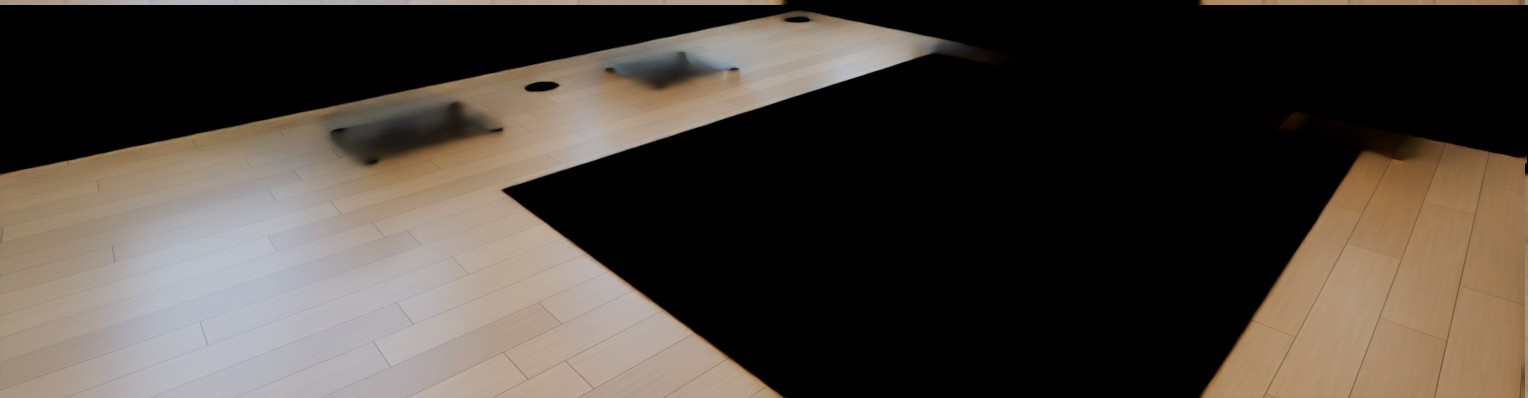
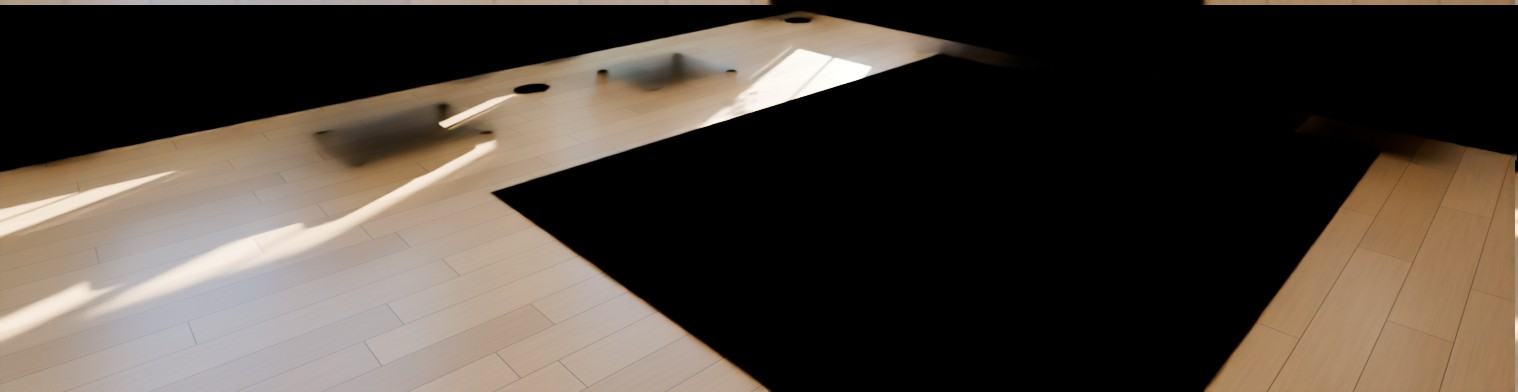
The Lookout 3500 2.0: primary
The Lookout 3500 2.0 page: a picture redone.

- Primary bedroom re-rendered: afternoon sun, cased windows with curtains, chandelier, art over the bed; crown molding as a choice, flooring, wall paint and window frames as before.

Claude-Session: https://claude.ai/code/session_01LcUu1yMTHs7qUW5E51HSvp

diff --git a/lookout/site.js b/lookout/site.js
@@ -1,1 +1,1 @@
-window.SJ={"name":"The Lookout 3500 2.0","slug":"the-lookout-3500-2","tag":"One-and-a-half-story plan","sub":"Four bedrooms and three and a half baths in 3,760 square feet, with the primary suite on the main level, a lookout room on the roof and a three-car garage.","stats":[["3,760","sq ft finished"],["4","bedrooms"],["3.5","baths"],["3","car garage"],["Main-level","primary suite"],["14 x 16","lookout room"]],"hero":{"day":"img/hero-day.jpg","night":""},"views":[{"id":"hero","name":"Front","kind":"ext","keys":["fas","fd","fdc","g","gdc","lk","prf","pst","rof","sid","trm","win"]},{"id":"yard","name":"Back yard","kind":"ext","keys":["fas","g","lk","pl","prf","pst","rof","sid","trm","win"]},{"id":"great","name":"Living room","kind":"int","keys":["bi","clg","cr","flr","fp","hwc","idc","ids","wal","win"]},{"id":"kitchen","name":"Kitchen","kind":"int","keys":["bsp","cab","cr","ctr","flr","hwc","isl","wal","win"]},{"id":"dining","name":"Dining room","kind":"int","keys":["flr","wal","win"]},{"id":"foyer","name":"Foyer","kind":"int","keys":["cr","fd","fdc","flr","hwc","sf","sr","wal","win"]},{"id":"primary","name":"Primary bedroom","kind":"int","keys":["flr","hwc","wal","win"]},{"id":"bath","name":"Primary bath","kind":"int","keys":["btl","cr","ctr","hwc","shw","vcab","wal","win"]},{"id":"office","name":"Loft over the primary closet","kind":"int","keys":["cr","flr","hwc","lof","sf","sr","wal","win"]},{"id":"loft","name":"Upstairs loft","kind":"int","keys":["wal","win"]},{"id":"lookout","name":"Lookout room","kind":"int","keys":["sf","sr","wal","win"],"veil":{"when":{"lk":"0"},"keys":["sf","sr","wal","win"],"note":"Shows in this picture when the lookout room is chosen"}},{"id":"bed2","name":"Bedroom 2","kind":"int","keys":["cpt","uf","wal","win"]},{"id":"bed4","name":"Bedroom 4","kind":"int","keys":["cpt","hwc","idc","uf","wal","win"]},{"id":"lounge","name":"Lower level lounge","kind":"int","keys":["b","cab","ctr","hwc","isl","wal"],"veil":{"when":{"b":"u"},"keys":["cab","ctr","hwc","isl","wal"],"note":"Shows in this picture once the lower level is finished"}},{"id":"bar","name":"Lower level bar","kind":"int","keys":["b","ctr","hwc","isl","wal"],"veil":{"when":{"b":"u"},"keys":["ctr","hwc","isl","wal"],"note":"Shows in this picture once the lower level is finished"}}],"baths":[],"bathkeys":[],"opts":[{"key":"lk","name":"Lookout room","cat":"ext","ch":[{"id":"1","name":"Lookout room on the roof (as drawn)"},{"id":"0","name":"No lookout"}],"note":"The lookout room sits on the roof, 14 x 16 ft with windows all around, reached by its own stair."},{"key":"g","name":"Garage entry","cat":"ext","ch":[{"id":"f","name":"Front entry (as drawn)"},{"id":"s","name":"Side entry, with a motor court"}],"note":"Side entry: the garage wing is re-proportioned and its doors face a motor court at the side; windows take their place on the front."},{"key":"pl","name":"Pool","cat":"ext","ch":[{"id":"n","name":"No pool (as drawn)"},{"id":"1","name":"Lap pool, 10 x 45 ft"},{"id":"2","name":"Plunge pool with a raised spa"},{"id":"3","name":"Courtyard pool with a shade pavilion"}],"note":"The pools sit behind the covered deck, on a paved terrace one step above the lawn."},{"key":"sid","name":"Siding colour","cat":"ext","ch":[{"id":"white","name":"Chantilly White","css":"#F1EFE8"},{"id":"cream","name":"Warm Cream","css":"#E6DCC6"},{"id":"greige","name":"Pebble Greige","css":"#B9B2A3"},{"id":"sage","name":"Sage","css":"#8E9A86"},{"id":"blue","name":"Harbor Blue","css":"#5E768A"},{"id":"navy","name":"Midnight Navy","css":"#28364A"},{"id":"iron","name":"Iron Gray","css":"#45484A"},{"id":"black","name":"Tricorn Black","css":"#222325"}]},{"key":"trm","name":"Trim and corner boards","cat":"ext","ch":[{"id":"white","name":"White","css":"#F4F2EC"},{"id":"cream","name":"Cream","css":"#E9E1CF"},{"id":"black","name":"Black","css":"#1E1F21"},{"id":"bronze","name":"Dark Bronze","css":"#3A322B"}]},{"key":"rof","name":"Roof shingles","cat":"ext","ch":[{"id":"char","name":"Charcoal","css":"linear-gradient(180deg,#33353A 0 50%,#45474C 50%)"},{"id":"onyx","name":"Onyx Black","css":"linear-gradient(180deg,#1D1E21 0 50%,#2A2B2F 50%)"},{"id":"wood","name":"Weathered Wood","css":"linear-gradient(180deg,#5E554B 0 50%,#7A6F62 50%)"},{"id":"slate","name":"Slate Gray","css":"linear-gradient(180deg,#4D5560 0 50%,#69717C 50%)"},{"id":"brown","name":"Barkwood","css":"linear-gradient(180deg,#41342B 0 50%,#5B4A3D 50%)"}]},{"key":"prf","name":"Porch, lookout and accent roofs","cat":"ext","ch":[{"id":"metal","name":"Black standing seam","css":"repeating-linear-gradient(90deg,#1b1c1f 0 7px,#34363a 7px 9px)"},{"id":"copper","name":"Copper standing seam","css":"repeating-linear-gradient(90deg,#9A5A34 0 7px,#c07c4c 7px 9px)"},{"id":"match","name":"Shingles to match","css":"repeating-linear-gradient(0deg,#2a2b2f 0 5px,#1d1e21 5px 10px)"}]},{"key":"fas","name":"Gutters and downspouts","cat":"ext","ch":[{"id":"white","name":"White","css":"#F2F0EA"},{"id":"black","name":"Black","css":"#1B1C1E"},{"id":"bronze","name":"Dark Bronze","css":"#3A322B"}]},{"key":"win","name":"Window frames","cat":"ext","ch":[{"id":"black","name":"Black","css":"#18191B"},{"id":"white","name":"White","css":"#F0EEE8"},{"id":"bronze","name":"Bronze","css":"#3B3129"},{"id":"clay","name":"Clay","css":"#A89F8E"}]},{"key":"fd","name":"Front door","cat":"ext","ch":[{"id":"g","name":"Double doors, glass over a panel"},{"id":"s","name":"Steel-look glass double doors"},{"id":"c","name":"Craftsman door with sidelights"},{"id":"p","name":"Panelled double doors"}],"note":"Every design comes with a transom over the door; its colour is the next choice."},{"key":"fdc","name":"Front door colour","cat":"ext","ch":[{"id":"wood","name":"Stained Walnut","css":"linear-gradient(135deg,#6A4226,#4A2C18)"},{"id":"black","name":"Black","css":"#161719"},{"id":"navy","name":"Navy","css":"#22324A"},{"id":"red","name":"Barn Red","css":"#6E1F1B"},{"id":"teal","name":"Deep Teal","css":"#1F4A4C"},{"id":"sage","name":"Sage","css":"#7C8A74"},{"id":"white","name":"White","css":"#F0EEE8"}]},{"key":"gdc","name":"Garage door colour","cat":"ext","ch":[{"id":"white","name":"White","css":"#EFEDE7"},{"id":"black","name":"Black","css":"#18191B"},{"id":"iron","name":"Iron Gray","css":"#4A4C4E"},{"id":"bronze","name":"Bronze","css":"#3B3129"},{"id":"wood","name":"Walnut","css":"linear-gradient(135deg,#6A4226,#4A2C18)"}]},{"key":"pst","name":"Porch posts and beams","cat":"ext","ch":[{"id":"cedar","name":"Stained cedar","css":"linear-gradient(135deg,#96663A,#774E28)"},{"id":"white","name":"White","css":"#EFEDE7"},{"id":"black","name":"Black","css":"#1F2022"}]},{"key":"b","name":"Lower level","cat":"int","ch":[{"id":"u","name":"Unfinished (as drawn)"},{"id":"f","name":"Finished"}]},{"key":"lof","name":"Loft over the primary closet","cat":"int","ch":[{"id":"o","name":"Home office"},{"id":"l","name":"Library"},{"id":"r","name":"Retreat"}],"note":"The room over the primary closet, up its own spiral stair: 13 x 11 ft with windows on all four sides."},{"key":"clg","name":"Living room ceiling","cat":"int","ch":[{"id":"c","name":"Coffered, painted"},{"id":"o","name":"Coffered, oak beams"},{"id":"b","name":"Timber beams"},{"id":"t","name":"Tray ceiling"}],"note":"Coffers: nine panels framed by beams, centred on the fireplace, with a ring chandelier in the middle."},{"key":"cr","name":"Crown molding","cat":"int","ch":[{"id":"n","name":"None"},{"id":"c","name":"Classic crown, 5 1/4 in."},{"id":"f","name":"Craftsman, flat with a cap"}],"note":"Runs on every wall that meets a flat ceiling: the main level, upstairs, the lookout room, the loft over the closet and the finished lower level."},{"key":"fp","name":"Fireplace","cat":"int","ch":[{"id":"stone","name":"Stacked stone (as drawn)","css":"repeating-linear-gradient(0deg,#8f887c 0 4px,#6f695f 4px 5px)"},{"id":"white","name":"White stacked stone","css":"repeating-linear-gradient(0deg,#E9E6DF 0 4px,#c4c0b7 4px 5px)"},{"id":"brick","name":"Red brick","css":"repeating-linear-gradient(0deg,#8E4A36 0 5px,#B9B2A6 5px 6px)"},{"id":"wbrick","name":"White painted brick","css":"repeating-linear-gradient(0deg,#EDEAE3 0 5px,#cfcbc2 5px 6px)"},{"id":"slate","name":"Charcoal slate tile","css":"repeating-linear-gradient(90deg,#3B3D40 0 12px,#1F2022 12px 13px)"}]},{"key":"bi","name":"Fireplace built-ins","cat":"int","ch":[{"id":"c","name":"Cabinets with oak tops (as drawn)"},{"id":"s","name":"Cabinets and shelves to the ceiling"},{"id":"n","name":"None"}],"note":"The built-ins stand on both sides of the fireplace."},{"key":"ids","name":"Interior door style","cat":"int","ch":[{"id":"s","name":"Two-panel Shaker"},{"id":"f","name":"Five-panel"},{"id":"c","name":"Craftsman, three-panel"}],"note":"8 ft doors on the main level, 6 ft 8 in. upstairs; every opening is cased, with a cap over the head."},{"key":"idc","name":"Interior doors","cat":"int","ch":[{"id":"white","name":"White","css":"#F2F0EA"},{"id":"black","name":"Black","css":"#1E1F21"},{"id":"grey","name":"Gray","css":"#8F9190"},{"id":"oak","name":"Natural oak","css":"linear-gradient(135deg,#B9905E,#A67C4C)"}]},{"key":"sf","name":"Stair treads and handrails","cat":"int","ch":[{"id":"o","name":"Natural oak (as drawn)","css":"linear-gradient(135deg,#B9905E,#A67C4C)"},{"id":"d","name":"Walnut","css":"linear-gradient(135deg,#6A4A32,#573B27)"},{"id":"k","name":"Ebony","css":"linear-gradient(135deg,#30261F,#211A15)"},{"id":"w","name":"Whitewashed oak","css":"linear-gradient(135deg,#D9CDB8,#C9BCA4)"}]},{"key":"sr","name":"Stair balusters","cat":"int","ch":[{"id":"k","name":"Black iron","css":"#141414"},{"id":"w","name":"White","css":"#EFEDE7"},{"id":"b","name":"Satin brass","css":"#B08A4A"}]},{"key":"flr","name":"Hardwood flooring","cat":"int","ch":[{"id":"oak","name":"Natural Oak Plank","css":"repeating-linear-gradient(90deg,#B08F68 0 9px,#9C7B55 9px 18px)"},{"id":"honey","name":"Honey Oak","css":"repeating-linear-gradient(90deg,#B8834A 0 9px,#A2703C 9px 18px)"},{"id":"grey","name":"Driftwood Gray","css":"repeating-linear-gradient(90deg,#9A9288 0 9px,#857D73 9px 18px)"},{"id":"walnut","name":"Walnut","css":"repeating-linear-gradient(90deg,#6A4A32 0 9px,#573B27 9px 18px)"},{"id":"white","name":"Whitewashed","css":"repeating-linear-gradient(90deg,#CFC3B0 0 9px,#BFB29E 9px 18px)"}]},{"key":"uf","name":"Bedroom flooring","cat":"int","ch":[{"id":"c","name":"Carpet (as shown)","css":"repeating-linear-gradient(45deg,#C9C0AE 0 3px,#BDB4A2 3px 6px)"},{"id":"oak","name":"Natural Oak Plank","css":"repeating-linear-gradient(90deg,#B08F68 0 9px,#9C7B55 9px 18px)"},{"id":"honey","name":"Honey Oak","css":"repeating-linear-gradient(90deg,#B8834A 0 9px,#A2703C 9px 18px)"},{"id":"grey","name":"Driftwood Gray","css":"repeating-linear-gradient(90deg,#9A9288 0 9px,#857D73 9px 18px)"},{"id":"walnut","name":"Walnut","css":"repeating-linear-gradient(90deg,#6A4A32 0 9px,#573B27 9px 18px)"},{"id":"white","name":"Whitewashed","css":"repeating-linear-gradient(90deg,#CFC3B0 0 9px,#BFB29E 9px 18px)"}]},{"key":"cpt","name":"Carpet","cat":"int","ch":[{"id":"oat","name":"Oatmeal","css":"#C9C0AE"},{"id":"grey","name":"Silver","css":"#B5B3AE"},{"id":"taupe","name":"Taupe","css":"#A39685"}],"only":{"uf":"c"}},{"key":"wal","name":"Wall paint","cat":"int","ch":[{"id":"alab","name":"Alabaster","css":"#EDEAE0"},{"id":"grey","name":"Agreeable Gray","css":"#D1CBC1"},{"id":"greige","name":"Accessible Beige","css":"#D1C7B8"},{"id":"blue","name":"Sea Salt","css":"#CDD2CA"},{"id":"white","name":"Pure White","css":"#F2F0EB"}]},{"key":"cab","name":"Kitchen cabinets","cat":"int","ch":[{"id":"white","name":"White Shaker","css":"#EFEDE7"},{"id":"grey","name":"Dove Gray","css":"#A9ABA8"},{"id":"sage","name":"Sage","css":"#8A967F"},{"id":"navy","name":"Navy","css":"#27364B"},{"id":"black","name":"Black","css":"#1F2022"},{"id":"oak","name":"Natural Oak","css":"linear-gradient(135deg,#B9905E,#A67C4C)"}]},{"key":"isl","name":"Island and range hood","cat":"int","ch":[{"id":"navy","name":"Navy","css":"#27364B"},{"id":"white","name":"White","css":"#EFEDE7"},{"id":"oak","name":"Natural Oak","css":"linear-gradient(135deg,#B9905E,#A67C4C)"},{"id":"black","name":"Black","css":"#1F2022"},{"id":"sage","name":"Sage","css":"#8A967F"}]},{"key":"ctr","name":"Countertops","cat":"int","ch":[{"id":"white","name":"White Quartz","css":"#EEEBE4"},{"id":"marble","name":"Marble-look Quartz","css":"linear-gradient(120deg,#ECE9E3 0 40%,#b9b6ae 44%,#ECE9E3 48% 70%,#c9c6be 74%,#ECE9E3 78%)"},{"id":"black","name":"Black Granite","css":"linear-gradient(120deg,#17181A 0 55%,#4a4a48 60%,#17181A 65%)"},{"id":"grey","name":"Concrete Gray","css":"#9A9894"}]},{"key":"bsp","name":"Backsplash","cat":"int","ch":[{"id":"slab","name":"Marble slab","css":"linear-gradient(120deg,#ECE9E3 0 40%,#b9b6ae 44%,#ECE9E3 48% 70%,#c9c6be 74%,#ECE9E3 78%)"},{"id":"subway","name":"White Subway","css":"repeating-linear-gradient(0deg,#F0EEE8 0 8px,#cfccc4 8px 9px)"},{"id":"green","name":"Sage Zellige","css":"repeating-linear-gradient(0deg,#8FA08A 0 8px,#6f806a 8px 9px)"},{"id":"grey","name":"Gray Subway","css":"repeating-linear-gradient(0deg,#B4B6B4 0 8px,#8f918f 8px 9px)"},{"id":"black","name":"Black Subway","css":"repeating-linear-gradient(0deg,#232426 0 8px,#6A6A68 8px 9px)"}]},{"key":"vcab","name":"Bathroom vanities","cat":"int","ch":[{"id":"oak","name":"Natural oak","css":"linear-gradient(135deg,#B9905E,#A67C4C)"},{"id":"white","name":"White","css":"#EFEDE7"},{"id":"navy","name":"Navy","css":"#27364B"},{"id":"sage","name":"Sage","css":"#8A967F"},{"id":"black","name":"Black","css":"#1F2022"},{"id":"walnut","name":"Walnut","css":"linear-gradient(135deg,#6A4A32,#573B27)"}]},{"key":"shw","name":"Shower walls","cat":"int","ch":[{"id":"slab","name":"Marble slab","css":"linear-gradient(120deg,#ECE9E3 0 40%,#b9b6ae 44%,#ECE9E3 48% 70%,#c9c6be 74%,#ECE9E3 78%)"},{"id":"subway","name":"White subway tile","css":"repeating-linear-gradient(0deg,#F0EEE8 0 8px,#cfccc4 8px 9px)"},{"id":"zel","name":"Sage zellige","css":"repeating-linear-gradient(0deg,#8FA08A 0 8px,#6f806a 8px 9px)"},{"id":"slate","name":"Charcoal slate","css":"repeating-linear-gradient(90deg,#3B3D40 0 14px,#1F2022 14px 15px)"},{"id":"trav","name":"Warm limestone","css":"repeating-linear-gradient(90deg,#D9CDB8 0 14px,#B8AC96 14px 15px)"}],"note":"The primary bath's wet room, and the wall behind the tub in each upstairs bath."},{"key":"btl","name":"Bath floor tile","cat":"int","ch":[{"id":"w","name":"White porcelain","css":"repeating-linear-gradient(90deg,#EDEBE6 0 12px,#B9B6AE 12px 13px)"},{"id":"g","name":"Warm gray","css":"repeating-linear-gradient(90deg,#B9B2A6 0 12px,#8C867B 12px 13px)"},{"id":"m","name":"Marble look","css":"linear-gradient(120deg,#ECEAE6 0 40%,#c4c1bb 46%,#ECEAE6 52%)"},{"id":"c","name":"Charcoal slate","css":"repeating-linear-gradient(90deg,#4A4C4F 0 12px,#2C2D2F 12px 13px)"}]},{"key":"hwc","name":"Hardware and faucets","cat":"int","ch":[{"id":"brass","name":"Satin Brass","css":"#B08A4A"},{"id":"black","name":"Matte Black","css":"#101011"},{"id":"nickel","name":"Satin Nickel","css":"#9A9A98"}]}],"defaults":{"sid":"white","trm":"white","fas":"white","win":"black","fdc":"wood","gdc":"white","rof":"char","prf":"metal","lk":"1","g":"f","b":"u","pl":"n","fd":"g","pst":"cedar","clg":"c","cr":"n","fp":"stone","bi":"c","sf":"o","sr":"k","idc":"white","ids":"s","lof":"o","hwc":"brass","wal":"alab","cab":"white","isl":"navy","ctr":"marble","bsp":"slab","vcab":"oak","shw":"slab","btl":"w","flr":"oak","cpt":"oat","uf":"c"},"gallery":[],"looks":[{"cat":"ext","name":"Modern farmhouse (as drawn)","set":{}},{"cat":"ext","name":"Midnight and copper","set":{"sid":"navy","prf":"copper","gdc":"wood","rof":"onyx"}},{"cat":"ext","name":"Sage cottage","set":{"sid":"sage","trm":"cream","fas":"bronze","win":"white","rof":"wood","fdc":"navy","fd":"c"}},{"cat":"ext","name":"Charcoal modern","set":{"sid":"iron","trm":"black","fas":"black","rof":"onyx","gdc":"black","fdc":"black","fd":"s"}},{"cat":"ext","name":"Coastal blue","set":{"sid":"blue","win":"white","rof":"slate","fdc":"navy"}},{"cat":"ext","name":"Warm greige","set":{"sid":"greige","trm":"cream","fas":"bronze","win":"bronze","rof":"brown","gdc":"bronze","fd":"p"}},{"cat":"ext","name":"Black barn","set":{"sid":"black","trm":"black","fas":"black","gdc":"wood","prf":"copper","fd":"p"}},{"cat":"int","name":"Light and warm (as shown)","set":{}},{"cat":"int","name":"Warm oak","set":{"isl":"oak","ctr":"marble","flr":"honey","wal":"greige","clg":"o","cr":"f","ids":"c"}},{"cat":"int","name":"Deep and moody","set":{"cab":"navy","bsp":"grey","flr":"walnut","wal":"grey","idc":"black","clg":"b","cr":"c","vcab":"navy","shw":"slate","lof":"l"}},{"cat":"int","name":"Scandinavian","set":{"isl":"white","flr":"white","wal":"white","hwc":"black","clg":"t","ids":"f","vcab":"white","shw":"subway"}},{"cat":"int","name":"Sage kitchen","set":{"cab":"sage","isl":"oak","bsp":"green","vcab":"sage","shw":"zel","lof":"r"}},{"cat":"int","name":"Black and white","set":{"cab":"black","isl":"white","ctr":"marble","flr":"grey","wal":"white","hwc":"nickel","idc":"black","ids":"c","cr":"c","vcab":"black","shw":"subway"}},{"cat":"int","name":"Everything added","set":{"cr":"c","clg":"o","bi":"s","ids":"c","lof":"l","b":"f"}}],"plan_lead":"Each level seen from straight above, with everything over it taken away. Furniture is illustrative.","plans":[{"id":"main_f","name":"Main level","note":"2,144 sq ft: living, dining and kitchen in the core, the primary suite in its own wing, a three-car garage","svg":"<img src=\"img/plan-main_f.jpg\" alt=\"Main level, seen from above with the levels over it taken away\" style=\"width:100%;height:auto;display:block;border-radius:10px\">"},{"id":"main_s","name":"Main level, side-entry garage","note":"The same rooms; the garage wing is re-proportioned and entered from a motor court at the side","svg":"<img src=\"img/plan-main_s.jpg\" alt=\"Main level, side-entry garage, seen from above with the levels over it taken away\" style=\"width:100%;height:auto;display:block;border-radius:10px\">"},{"id":"upper","name":"Upstairs","note":"1,224 sq ft: three bedrooms, two baths, the loft and a laundry; the office loft sits over the primary closet","svg":"<img src=\"img/plan-upper.jpg\" alt=\"Upstairs, seen from above with the levels over it taken away\" style=\"width:100%;height:auto;display:block;border-radius:10px\">"},{"id":"look","name":"Lookout","note":"224 sq ft: the lookout room on the roof, windows on all four sides","svg":"<img src=\"img/plan-look.jpg\" alt=\"Lookout, seen from above with the levels over it taken away\" style=\"width:100%;height:auto;display:block;border-radius:10px\">"},{"id":"bsmt_u","name":"Lower level","note":"Unfinished, as drawn: a safe room, mechanical space and rough-ins for a bath and a wet bar","svg":"<img src=\"img/plan-bsmt_u.jpg\" alt=\"Lower level, seen from above with the levels over it taken away\" style=\"width:100%;height:auto;display:block;border-radius:10px\">"},{"id":"bsmt_f","name":"Lower level, finished","note":"Lounge, bar, gym, bath and sauna, with the safe room, storage and mechanical space","svg":"<img src=\"img/plan-bsmt_f.jpg\" alt=\"Lower level, finished, seen from above with the levels over it taken away\" style=\"width:100%;height:auto;display:block;border-radius:10px\">"}],"lot":null,"specs":[{"h":"The home","items":["3,760 sq ft finished: 2,144 on the main level, 1,224 upstairs, a 168 sq ft office loft and the 224 sq ft lookout room","Four bedrooms and three and a half baths; the primary suite is on the main level in its own wing","The primary suite: a 20 x 20 bedroom with a door to the covered deck, a spa bath and a walk-in closet, about 800 sq ft in all","Three-car garage in a wing of its own, front entry or side entry","Core 34 x 36 ft, two stories; the garage wing 32 x 24 ft and the primary wing 20 x 46 ft are one story"]},{"h":"Rooms","items":["Main level: foyer, dining room, living room with a fireplace and a 12 ft slider to the covered deck, kitchen with a prep kitchen and pantry, mudroom, powder room, laundry","Upstairs: three bedrooms, two baths, a loft, a second laundry","An office loft over the primary closet, reached by its own spiral stair","The lookout room: 14 x 16 ft on the roof, windows on all four sides"]},{"h":"Heights and roof","items":["10 ft ceilings on the main level","Gable roofs with standing-seam accents over the porch, the lookout and the garage doors","Covered 16 x 14 ft deck off the living room; covered front porch on timber posts"]},{"h":"Inside finish","items":["Living room ceiling: nine coffers centred on the fireplace with a ring chandelier, painted or in oak; timber beams or a tray ceiling instead","Doors: 8 ft on the main level and 6 ft 8 in. upstairs, in three panel styles, every opening cased with a cap over the head","Crown molding as a choice on every level, classic or craftsman","Front door in four designs under a transom: glass over a panel, steel-look glass, craftsman with sidelights, or panelled","Baths: vanity cabinets and shower walls chosen apart from the kitchen","The loft over the primary closet as a home office, a library or a retreat"]},{"h":"Outside","items":["Board-and-batten siding with trim boards at corners and openings","Black-framed windows with grids","A full basement under the core"]}],"foot":["The pictures and the design studio on this page are computer renderings of a 3D model of the plan. Furniture, planting and the land around the house are illustrative; the plan is not drawn on a particular lot.","Finishes offered in the design studio are examples for planning, not a builder's price list. A builder's plan set and contract govern."],"tour":null,"model3d":{"src":"3d/","poster":"img/hero-day.jpg"}};
+window.SJ={"name":"The Lookout 3500 2.0","slug":"the-lookout-3500-2","tag":"One-and-a-half-story plan","sub":"Four bedrooms and three and a half baths in 3,760 square feet, with the primary suite on the main level, a lookout room on the roof and a three-car garage.","stats":[["3,760","sq ft finished"],["4","bedrooms"],["3.5","baths"],["3","car garage"],["Main-level","primary suite"],["14 x 16","lookout room"]],"hero":{"day":"img/hero-day.jpg","night":""},"views":[{"id":"hero","name":"Front","kind":"ext","keys":["fas","fd","fdc","g","gdc","lk","prf","pst","rof","sid","trm","win"]},{"id":"yard","name":"Back yard","kind":"ext","keys":["fas","g","lk","pl","prf","pst","rof","sid","trm","win"]},{"id":"great","name":"Living room","kind":"int","keys":["bi","clg","cr","flr","fp","hwc","idc","ids","wal","win"]},{"id":"kitchen","name":"Kitchen","kind":"int","keys":["bsp","cab","cr","ctr","flr","hwc","isl","wal","win"]},{"id":"dining","name":"Dining room","kind":"int","keys":["flr","wal","win"]},{"id":"foyer","name":"Foyer","kind":"int","keys":["cr","fd","fdc","flr","hwc","sf","sr","wal","win"]},{"id":"primary","name":"Primary bedroom","kind":"int","keys":["cr","flr","wal","win"]},{"id":"bath","name":"Primary bath","kind":"int","keys":["btl","cr","ctr","hwc","shw","vcab","wal","win"]},{"id":"office","name":"Loft over the primary closet","kind":"int","keys":["cr","flr","hwc","lof","sf","sr","wal","win"]},{"id":"loft","name":"Upstairs loft","kind":"int","keys":["wal","win"]},{"id":"lookout","name":"Lookout room","kind":"int","keys":["sf","sr","wal","win"],"veil":{"when":{"lk":"0"},"keys":["sf","sr","wal","win"],"note":"Shows in this picture when the lookout room is chosen"}},{"id":"bed2","name":"Bedroom 2","kind":"int","keys":["cpt","uf","wal","win"]},{"id":"bed4","name":"Bedroom 4","kind":"int","keys":["cpt","hwc","idc","uf","wal","win"]},{"id":"lounge","name":"Lower level lounge","kind":"int","keys":["b","cab","ctr","hwc","isl","wal"],"veil":{"when":{"b":"u"},"keys":["cab","ctr","hwc","isl","wal"],"note":"Shows in this picture once the lower level is finished"}},{"id":"bar","name":"Lower level bar","kind":"int","keys":["b","ctr","hwc","isl","wal"],"veil":{"when":{"b":"u"},"keys":["ctr","hwc","isl","wal"],"note":"Shows in this picture once the lower level is finished"}}],"baths":[],"bathkeys":[],"opts":[{"key":"lk","name":"Lookout room","cat":"ext","ch":[{"id":"1","name":"Lookout room on the roof (as drawn)"},{"id":"0","name":"No lookout"}],"note":"The lookout room sits on the roof, 14 x 16 ft with windows all around, reached by its own stair."},{"key":"g","name":"Garage entry","cat":"ext","ch":[{"id":"f","name":"Front entry (as drawn)"},{"id":"s","name":"Side entry, with a motor court"}],"note":"Side entry: the garage wing is re-proportioned and its doors face a motor court at the side; windows take their place on the front."},{"key":"pl","name":"Pool","cat":"ext","ch":[{"id":"n","name":"No pool (as drawn)"},{"id":"1","name":"Lap pool, 10 x 45 ft"},{"id":"2","name":"Plunge pool with a raised spa"},{"id":"3","name":"Courtyard pool with a shade pavilion"}],"note":"The pools sit behind the covered deck, on a paved terrace one step above the lawn."},{"key":"sid","name":"Siding colour","cat":"ext","ch":[{"id":"white","name":"Chantilly White","css":"#F1EFE8"},{"id":"cream","name":"Warm Cream","css":"#E6DCC6"},{"id":"greige","name":"Pebble Greige","css":"#B9B2A3"},{"id":"sage","name":"Sage","css":"#8E9A86"},{"id":"blue","name":"Harbor Blue","css":"#5E768A"},{"id":"navy","name":"Midnight Navy","css":"#28364A"},{"id":"iron","name":"Iron Gray","css":"#45484A"},{"id":"black","name":"Tricorn Black","css":"#222325"}]},{"key":"trm","name":"Trim and corner boards","cat":"ext","ch":[{"id":"white","name":"White","css":"#F4F2EC"},{"id":"cream","name":"Cream","css":"#E9E1CF"},{"id":"black","name":"Black","css":"#1E1F21"},{"id":"bronze","name":"Dark Bronze","css":"#3A322B"}]},{"key":"rof","name":"Roof shingles","cat":"ext","ch":[{"id":"char","name":"Charcoal","css":"linear-gradient(180deg,#33353A 0 50%,#45474C 50%)"},{"id":"onyx","name":"Onyx Black","css":"linear-gradient(180deg,#1D1E21 0 50%,#2A2B2F 50%)"},{"id":"wood","name":"Weathered Wood","css":"linear-gradient(180deg,#5E554B 0 50%,#7A6F62 50%)"},{"id":"slate","name":"Slate Gray","css":"linear-gradient(180deg,#4D5560 0 50%,#69717C 50%)"},{"id":"brown","name":"Barkwood","css":"linear-gradient(180deg,#41342B 0 50%,#5B4A3D 50%)"}]},{"key":"prf","name":"Porch, lookout and accent roofs","cat":"ext","ch":[{"id":"metal","name":"Black standing seam","css":"repeating-linear-gradient(90deg,#1b1c1f 0 7px,#34363a 7px 9px)"},{"id":"copper","name":"Copper standing seam","css":"repeating-linear-gradient(90deg,#9A5A34 0 7px,#c07c4c 7px 9px)"},{"id":"match","name":"Shingles to match","css":"repeating-linear-gradient(0deg,#2a2b2f 0 5px,#1d1e21 5px 10px)"}]},{"key":"fas","name":"Gutters and downspouts","cat":"ext","ch":[{"id":"white","name":"White","css":"#F2F0EA"},{"id":"black","name":"Black","css":"#1B1C1E"},{"id":"bronze","name":"Dark Bronze","css":"#3A322B"}]},{"key":"win","name":"Window frames","cat":"ext","ch":[{"id":"black","name":"Black","css":"#18191B"},{"id":"white","name":"White","css":"#F0EEE8"},{"id":"bronze","name":"Bronze","css":"#3B3129"},{"id":"clay","name":"Clay","css":"#A89F8E"}]},{"key":"fd","name":"Front door","cat":"ext","ch":[{"id":"g","name":"Double doors, glass over a panel"},{"id":"s","name":"Steel-look glass double doors"},{"id":"c","name":"Craftsman door with sidelights"},{"id":"p","name":"Panelled double doors"}],"note":"Every design comes with a transom over the door; its colour is the next choice."},{"key":"fdc","name":"Front door colour","cat":"ext","ch":[{"id":"wood","name":"Stained Walnut","css":"linear-gradient(135deg,#6A4226,#4A2C18)"},{"id":"black","name":"Black","css":"#161719"},{"id":"navy","name":"Navy","css":"#22324A"},{"id":"red","name":"Barn Red","css":"#6E1F1B"},{"id":"teal","name":"Deep Teal","css":"#1F4A4C"},{"id":"sage","name":"Sage","css":"#7C8A74"},{"id":"white","name":"White","css":"#F0EEE8"}]},{"key":"gdc","name":"Garage door colour","cat":"ext","ch":[{"id":"white","name":"White","css":"#EFEDE7"},{"id":"black","name":"Black","css":"#18191B"},{"id":"iron","name":"Iron Gray","css":"#4A4C4E"},{"id":"bronze","name":"Bronze","css":"#3B3129"},{"id":"wood","name":"Walnut","css":"linear-gradient(135deg,#6A4226,#4A2C18)"}]},{"key":"pst","name":"Porch posts and beams","cat":"ext","ch":[{"id":"cedar","name":"Stained cedar","css":"linear-gradient(135deg,#96663A,#774E28)"},{"id":"white","name":"White","css":"#EFEDE7"},{"id":"black","name":"Black","css":"#1F2022"}]},{"key":"b","name":"Lower level","cat":"int","ch":[{"id":"u","name":"Unfinished (as drawn)"},{"id":"f","name":"Finished"}]},{"key":"lof","name":"Loft over the primary closet","cat":"int","ch":[{"id":"o","name":"Home office"},{"id":"l","name":"Library"},{"id":"r","name":"Retreat"}],"note":"The room over the primary closet, up its own spiral stair: 13 x 11 ft with windows on all four sides."},{"key":"clg","name":"Living room ceiling","cat":"int","ch":[{"id":"c","name":"Coffered, painted"},{"id":"o","name":"Coffered, oak beams"},{"id":"b","name":"Timber beams"},{"id":"t","name":"Tray ceiling"}],"note":"Coffers: nine panels framed by beams, centred on the fireplace, with a ring chandelier in the middle."},{"key":"cr","name":"Crown molding","cat":"int","ch":[{"id":"n","name":"None"},{"id":"c","name":"Classic crown, 5 1/4 in."},{"id":"f","name":"Craftsman, flat with a cap"}],"note":"Runs on every wall that meets a flat ceiling: the main level, upstairs, the lookout room, the loft over the closet and the finished lower level."},{"key":"fp","name":"Fireplace","cat":"int","ch":[{"id":"stone","name":"Stacked stone (as drawn)","css":"repeating-linear-gradient(0deg,#8f887c 0 4px,#6f695f 4px 5px)"},{"id":"white","name":"White stacked stone","css":"repeating-linear-gradient(0deg,#E9E6DF 0 4px,#c4c0b7 4px 5px)"},{"id":"brick","name":"Red brick","css":"repeating-linear-gradient(0deg,#8E4A36 0 5px,#B9B2A6 5px 6px)"},{"id":"wbrick","name":"White painted brick","css":"repeating-linear-gradient(0deg,#EDEAE3 0 5px,#cfcbc2 5px 6px)"},{"id":"slate","name":"Charcoal slate tile","css":"repeating-linear-gradient(90deg,#3B3D40 0 12px,#1F2022 12px 13px)"}]},{"key":"bi","name":"Fireplace built-ins","cat":"int","ch":[{"id":"c","name":"Cabinets with oak tops (as drawn)"},{"id":"s","name":"Cabinets and shelves to the ceiling"},{"id":"n","name":"None"}],"note":"The built-ins stand on both sides of the fireplace."},{"key":"ids","name":"Interior door style","cat":"int","ch":[{"id":"s","name":"Two-panel Shaker"},{"id":"f","name":"Five-panel"},{"id":"c","name":"Craftsman, three-panel"}],"note":"8 ft doors on the main level, 6 ft 8 in. upstairs; every opening is cased, with a cap over the head."},{"key":"idc","name":"Interior doors","cat":"int","ch":[{"id":"white","name":"White","css":"#F2F0EA"},{"id":"black","name":"Black","css":"#1E1F21"},{"id":"grey","name":"Gray","css":"#8F9190"},{"id":"oak","name":"Natural oak","css":"linear-gradient(135deg,#B9905E,#A67C4C)"}]},{"key":"sf","name":"Stair treads and handrails","cat":"int","ch":[{"id":"o","name":"Natural oak (as drawn)","css":"linear-gradient(135deg,#B9905E,#A67C4C)"},{"id":"d","name":"Walnut","css":"linear-gradient(135deg,#6A4A32,#573B27)"},{"id":"k","name":"Ebony","css":"linear-gradient(135deg,#30261F,#211A15)"},{"id":"w","name":"Whitewashed oak","css":"linear-gradient(135deg,#D9CDB8,#C9BCA4)"}]},{"key":"sr","name":"Stair balusters","cat":"int","ch":[{"id":"k","name":"Black iron","css":"#141414"},{"id":"w","name":"White","css":"#EFEDE7"},{"id":"b","name":"Satin brass","css":"#B08A4A"}]},{"key":"flr","name":"Hardwood flooring","cat":"int","ch":[{"id":"oak","name":"Natural Oak Plank","css":"repeating-linear-gradient(90deg,#B08F68 0 9px,#9C7B55 9px 18px)"},{"id":"honey","name":"Honey Oak","css":"repeating-linear-gradient(90deg,#B8834A 0 9px,#A2703C 9px 18px)"},{"id":"grey","name":"Driftwood Gray","css":"repeating-linear-gradient(90deg,#9A9288 0 9px,#857D73 9px 18px)"},{"id":"walnut","name":"Walnut","css":"repeating-linear-gradient(90deg,#6A4A32 0 9px,#573B27 9px 18px)"},{"id":"white","name":"Whitewashed","css":"repeating-linear-gradient(90deg,#CFC3B0 0 9px,#BFB29E 9px 18px)"}]},{"key":"uf","name":"Bedroom flooring","cat":"int","ch":[{"id":"c","name":"Carpet (as shown)","css":"repeating-linear-gradient(45deg,#C9C0AE 0 3px,#BDB4A2 3px 6px)"},{"id":"oak","name":"Natural Oak Plank","css":"repeating-linear-gradient(90deg,#B08F68 0 9px,#9C7B55 9px 18px)"},{"id":"honey","name":"Honey Oak","css":"repeating-linear-gradient(90deg,#B8834A 0 9px,#A2703C 9px 18px)"},{"id":"grey","name":"Driftwood Gray","css":"repeating-linear-gradient(90deg,#9A9288 0 9px,#857D73 9px 18px)"},{"id":"walnut","name":"Walnut","css":"repeating-linear-gradient(90deg,#6A4A32 0 9px,#573B27 9px 18px)"},{"id":"white","name":"Whitewashed","css":"repeating-linear-gradient(90deg,#CFC3B0 0 9px,#BFB29E 9px 18px)"}]},{"key":"cpt","name":"Carpet","cat":"int","ch":[{"id":"oat","name":"Oatmeal","css":"#C9C0AE"},{"id":"grey","name":"Silver","css":"#B5B3AE"},{"id":"taupe","name":"Taupe","css":"#A39685"}],"only":{"uf":"c"}},{"key":"wal","name":"Wall paint","cat":"int","ch":[{"id":"alab","name":"Alabaster","css":"#EDEAE0"},{"id":"grey","name":"Agreeable Gray","css":"#D1CBC1"},{"id":"greige","name":"Accessible Beige","css":"#D1C7B8"},{"id":"blue","name":"Sea Salt","css":"#CDD2CA"},{"id":"white","name":"Pure White","css":"#F2F0EB"}]},{"key":"cab","name":"Kitchen cabinets","cat":"int","ch":[{"id":"white","name":"White Shaker","css":"#EFEDE7"},{"id":"grey","name":"Dove Gray","css":"#A9ABA8"},{"id":"sage","name":"Sage","css":"#8A967F"},{"id":"navy","name":"Navy","css":"#27364B"},{"id":"black","name":"Black","css":"#1F2022"},{"id":"oak","name":"Natural Oak","css":"linear-gradient(135deg,#B9905E,#A67C4C)"}]},{"key":"isl","name":"Island and range hood","cat":"int","ch":[{"id":"navy","name":"Navy","css":"#27364B"},{"id":"white","name":"White","css":"#EFEDE7"},{"id":"oak","name":"Natural Oak","css":"linear-gradient(135deg,#B9905E,#A67C4C)"},{"id":"black","name":"Black","css":"#1F2022"},{"id":"sage","name":"Sage","css":"#8A967F"}]},{"key":"ctr","name":"Countertops","cat":"int","ch":[{"id":"white","name":"White Quartz","css":"#EEEBE4"},{"id":"marble","name":"Marble-look Quartz","css":"linear-gradient(120deg,#ECE9E3 0 40%,#b9b6ae 44%,#ECE9E3 48% 70%,#c9c6be 74%,#ECE9E3 78%)"},{"id":"black","name":"Black Granite","css":"linear-gradient(120deg,#17181A 0 55%,#4a4a48 60%,#17181A 65%)"},{"id":"grey","name":"Concrete Gray","css":"#9A9894"}]},{"key":"bsp","name":"Backsplash","cat":"int","ch":[{"id":"slab","name":"Marble slab","css":"linear-gradient(120deg,#ECE9E3 0 40%,#b9b6ae 44%,#ECE9E3 48% 70%,#c9c6be 74%,#ECE9E3 78%)"},{"id":"subway","name":"White Subway","css":"repeating-linear-gradient(0deg,#F0EEE8 0 8px,#cfccc4 8px 9px)"},{"id":"green","name":"Sage Zellige","css":"repeating-linear-gradient(0deg,#8FA08A 0 8px,#6f806a 8px 9px)"},{"id":"grey","name":"Gray Subway","css":"repeating-linear-gradient(0deg,#B4B6B4 0 8px,#8f918f 8px 9px)"},{"id":"black","name":"Black Subway","css":"repeating-linear-gradient(0deg,#232426 0 8px,#6A6A68 8px 9px)"}]},{"key":"vcab","name":"Bathroom vanities","cat":"int","ch":[{"id":"oak","name":"Natural oak","css":"linear-gradient(135deg,#B9905E,#A67C4C)"},{"id":"white","name":"White","css":"#EFEDE7"},{"id":"navy","name":"Navy","css":"#27364B"},{"id":"sage","name":"Sage","css":"#8A967F"},{"id":"black","name":"Black","css":"#1F2022"},{"id":"walnut","name":"Walnut","css":"linear-gradient(135deg,#6A4A32,#573B27)"}]},{"key":"shw","name":"Shower walls","cat":"int","ch":[{"id":"slab","name":"Marble slab","css":"linear-gradient(120deg,#ECE9E3 0 40%,#b9b6ae 44%,#ECE9E3 48% 70%,#c9c6be 74%,#ECE9E3 78%)"},{"id":"subway","name":"White subway tile","css":"repeating-linear-gradient(0deg,#F0EEE8 0 8px,#cfccc4 8px 9px)"},{"id":"zel","name":"Sage zellige","css":"repeating-linear-gradient(0deg,#8FA08A 0 8px,#6f806a 8px 9px)"},{"id":"slate","name":"Charcoal slate","css":"repeating-linear-gradient(90deg,#3B3D40 0 14px,#1F2022 14px 15px)"},{"id":"trav","name":"Warm limestone","css":"repeating-linear-gradient(90deg,#D9CDB8 0 14px,#B8AC96 14px 15px)"}],"note":"The primary bath's wet room, and the wall behind the tub in each upstairs bath."},{"key":"btl","name":"Bath floor tile","cat":"int","ch":[{"id":"w","name":"White porcelain","css":"repeating-linear-gradient(90deg,#EDEBE6 0 12px,#B9B6AE 12px 13px)"},{"id":"g","name":"Warm gray","css":"repeating-linear-gradient(90deg,#B9B2A6 0 12px,#8C867B 12px 13px)"},{"id":"m","name":"Marble look","css":"linear-gradient(120deg,#ECEAE6 0 40%,#c4c1bb 46%,#ECEAE6 52%)"},{"id":"c","name":"Charcoal slate","css":"repeating-linear-gradient(90deg,#4A4C4F 0 12px,#2C2D2F 12px 13px)"}]},{"key":"hwc","name":"Hardware and faucets","cat":"int","ch":[{"id":"brass","name":"Satin Brass","css":"#B08A4A"},{"id":"black","name":"Matte Black","css":"#101011"},{"id":"nickel","name":"Satin Nickel","css":"#9A9A98"}]}],"defaults":{"sid":"white","trm":"white","fas":"white","win":"black","fdc":"wood","gdc":"white","rof":"char","prf":"metal","lk":"1","g":"f","b":"u","pl":"n","fd":"g","pst":"cedar","clg":"c","cr":"n","fp":"stone","bi":"c","sf":"o","sr":"k","idc":"white","ids":"s","lof":"o","hwc":"brass","wal":"alab","cab":"white","isl":"navy","ctr":"marble","bsp":"slab","vcab":"oak","shw":"slab","btl":"w","flr":"oak","cpt":"oat","uf":"c"},"gallery":[],"looks":[{"cat":"ext","name":"Modern farmhouse (as drawn)","set":{}},{"cat":"ext","name":"Midnight and copper","set":{"sid":"navy","prf":"copper","gdc":"wood","rof":"onyx"}},{"cat":"ext","name":"Sage cottage","set":{"sid":"sage","trm":"cream","fas":"bronze","win":"white","rof":"wood","fdc":"navy","fd":"c"}},{"cat":"ext","name":"Charcoal modern","set":{"sid":"iron","trm":"black","fas":"black","rof":"onyx","gdc":"black","fdc":"black","fd":"s"}},{"cat":"ext","name":"Coastal blue","set":{"sid":"blue","win":"white","rof":"slate","fdc":"navy"}},{"cat":"ext","name":"Warm greige","set":{"sid":"greige","trm":"cream","fas":"bronze","win":"bronze","rof":"brown","gdc":"bronze","fd":"p"}},{"cat":"ext","name":"Black barn","set":{"sid":"black","trm":"black","fas":"black","gdc":"wood","prf":"copper","fd":"p"}},{"cat":"int","name":"Light and warm (as shown)","set":{}},{"cat":"int","name":"Warm oak","set":{"isl":"oak","ctr":"marble","flr":"honey","wal":"greige","clg":"o","cr":"f","ids":"c"}},{"cat":"int","name":"Deep and moody","set":{"cab":"navy","bsp":"grey","flr":"walnut","wal":"grey","idc":"black","clg":"b","cr":"c","vcab":"navy","shw":"slate","lof":"l"}},{"cat":"int","name":"Scandinavian","set":{"isl":"white","flr":"white","wal":"white","hwc":"black","clg":"t","ids":"f","vcab":"white","shw":"subway"}},{"cat":"int","name":"Sage kitchen","set":{"cab":"sage","isl":"oak","bsp":"green","vcab":"sage","shw":"zel","lof":"r"}},{"cat":"int","name":"Black and white","set":{"cab":"black","isl":"white","ctr":"marble","flr":"grey","wal":"white","hwc":"nickel","idc":"black","ids":"c","cr":"c","vcab":"black","shw":"subway"}},{"cat":"int","name":"Everything added","set":{"cr":"c","clg":"o","bi":"s","ids":"c","lof":"l","b":"f"}}],"plan_lead":"Each level seen from straight above, with everything over it taken away. Furniture is illustrative.","plans":[{"id":"main_f","name":"Main level","note":"2,144 sq ft: living, dining and kitchen in the core, the primary suite in its own wing, a three-car garage","svg":"<img src=\"img/plan-main_f.jpg\" alt=\"Main level, seen from above with the levels over it taken away\" style=\"width:100%;height:auto;display:block;border-radius:10px\">"},{"id":"main_s","name":"Main level, side-entry garage","note":"The same rooms; the garage wing is re-proportioned and entered from a motor court at the side","svg":"<img src=\"img/plan-main_s.jpg\" alt=\"Main level, side-entry garage, seen from above with the levels over it taken away\" style=\"width:100%;height:auto;display:block;border-radius:10px\">"},{"id":"upper","name":"Upstairs","note":"1,224 sq ft: three bedrooms, two baths, the loft and a laundry; the office loft sits over the primary closet","svg":"<img src=\"img/plan-upper.jpg\" alt=\"Upstairs, seen from above with the levels over it taken away\" style=\"width:100%;height:auto;display:block;border-radius:10px\">"},{"id":"look","name":"Lookout","note":"224 sq ft: the lookout room on the roof, windows on all four sides","svg":"<img src=\"img/plan-look.jpg\" alt=\"Lookout, seen from above with the levels over it taken away\" style=\"width:100%;height:auto;display:block;border-radius:10px\">"},{"id":"bsmt_u","name":"Lower level","note":"Unfinished, as drawn: a safe room, mechanical space and rough-ins for a bath and a wet bar","svg":"<img src=\"img/plan-bsmt_u.jpg\" alt=\"Lower level, seen from above with the levels over it taken away\" style=\"width:100%;height:auto;display:block;border-radius:10px\">"},{"id":"bsmt_f","name":"Lower level, finished","note":"Lounge, bar, gym, bath and sauna, with the safe room, storage and mechanical space","svg":"<img src=\"img/plan-bsmt_f.jpg\" alt=\"Lower level, finished, seen from above with the levels over it taken away\" style=\"width:100%;height:auto;display:block;border-radius:10px\">"}],"lot":null,"specs":[{"h":"The home","items":["3,760 sq ft finished: 2,144 on the main level, 1,224 upstairs, a 168 sq ft office loft and the 224 sq ft lookout room","Four bedrooms and three and a half baths; the primary suite is on the main level in its own wing","The primary suite: a 20 x 20 bedroom with a door to the covered deck, a spa bath and a walk-in closet, about 800 sq ft in all","Three-car garage in a wing of its own, front entry or side entry","Core 34 x 36 ft, two stories; the garage wing 32 x 24 ft and the primary wing 20 x 46 ft are one story"]},{"h":"Rooms","items":["Main level: foyer, dining room, living room with a fireplace and a 12 ft slider to the covered deck, kitchen with a prep kitchen and pantry, mudroom, powder room, laundry","Upstairs: three bedrooms, two baths, a loft, a second laundry","An office loft over the primary closet, reached by its own spiral stair","The lookout room: 14 x 16 ft on the roof, windows on all four sides"]},{"h":"Heights and roof","items":["10 ft ceilings on the main level","Gable roofs with standing-seam accents over the porch, the lookout and the garage doors","Covered 16 x 14 ft deck off the living room; covered front porch on timber posts"]},{"h":"Inside finish","items":["Living room ceiling: nine coffers centred on the fireplace with a ring chandelier, painted or in oak; timber beams or a tray ceiling instead","Doors: 8 ft on the main level and 6 ft 8 in. upstairs, in three panel styles, every opening cased with a cap over the head","Crown molding as a choice on every level, classic or craftsman","Front door in four designs under a transom: glass over a panel, steel-look glass, craftsman with sidelights, or panelled","Baths: vanity cabinets and shower walls chosen apart from the kitchen","The loft over the primary closet as a home office, a library or a retreat"]},{"h":"Outside","items":["Board-and-batten siding with trim boards at corners and openings","Black-framed windows with grids","A full basement under the core"]}],"foot":["The pictures and the design studio on this page are computer renderings of a 3D model of the plan. Furniture, planting and the land around the house are illustrative; the plan is not drawn on a particular lot.","Finishes offered in the design studio are examples for planning, not a builder's price list. A builder's plan set and contract govern."],"tour":null,"model3d":{"src":"3d/","poster":"img/hero-day.jpg"}};
